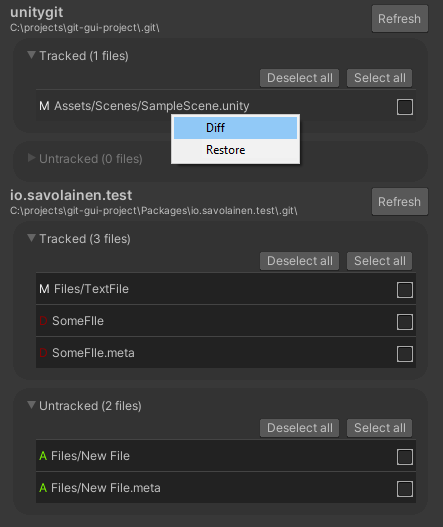
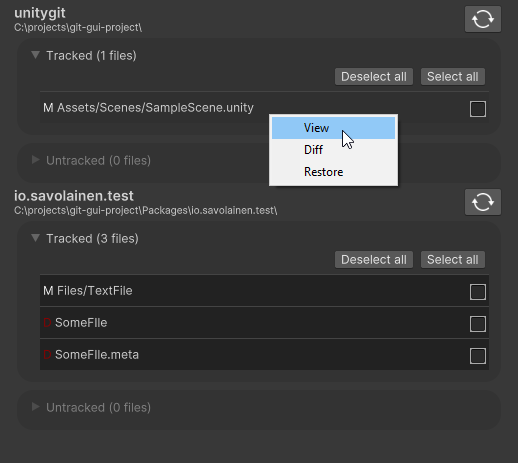
feat: add second image to readme

diff --git a/README.md b/README.md
@@ -4,10 +4,11 @@
 #### There is no official release yet, and the project is subject to change drastically.
 
 ![img.png](img.png)
+![img2.png](img2.png)
 
-UnityGit, at the time of writing, offers a commit window where users can commit changes made
-to their project or packages. It also features diffing (via the diff tool configured in Unity)
-and restoring capabilities.
+UnityGit, at the time of writing, offers
+- a window for creating commits, where the user can also view, diff and restore files
+- a branch window for viewing branches, pulling and pushing.
 
 UnityGit recognizes the Git repository inside the project's root folder and any repository
 inside Packages.
